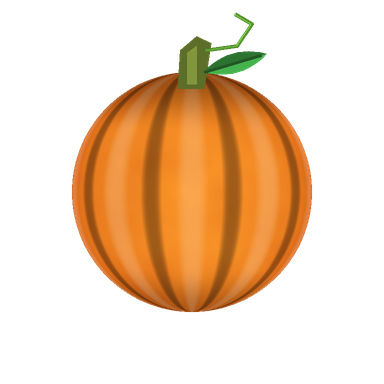
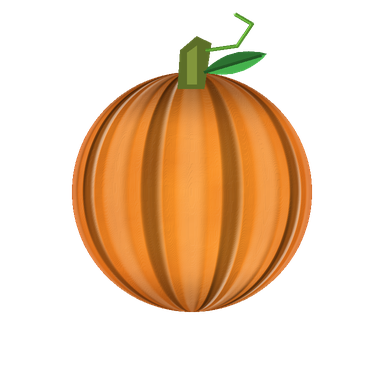
Fruit Fusion: relief and stronger lighting so fruit read as 3D
Fine skin detail is bump-lit (emboss per fruit), the shared light layers get a
deeper terminator, edge occlusion, sharper highlight and a stronger rim light.

Claude-Session: https://claude.ai/code/session_01T2SYHFgPNunqeWjZoHiYMF

diff --git a/games/fruit_merge/art/gen_art.py b/games/fruit_merge/art/gen_art.py
@@ -104,7 +104,28 @@ def lit(col, amount):
     return np.where(a >= 0, col + (1 - col) * a, col * (1 + a))
 
 
+RELIEF = {"amount": 0.0}  # set per fruit in main(); 0 = flat
+
+
+def emboss(rgb, amount, mask=None):
+    """Fake bump mapping: the fine detail (luminance minus its blur) is treated as height and lit from
+    the top left, so dimples, pores, fibres and eyes read as raised or sunk, not printed on."""
+    if amount <= 0:
+        return rgb
+    lum = np.clip(rgb.mean(axis=-1), 0, 1)
+    if mask is None:
+        mask = INSIDE
+    li = Image.fromarray((lum * 255).astype(np.uint8))
+    blur = np.asarray(li.filter(ImageFilter.GaussianBlur(R * 0.05)), dtype=np.float64) / 255.0
+    h = (lum - blur) * mask
+    gy, gx = np.gradient(h)
+    shade = -(gx * -0.55 + gy * -0.75) * amount * R * 0.08
+    rim = smooth(0.92, 1.0, np.sqrt(D2))  # fade out at the silhouette
+    return lit(rgb, np.clip(shade * (1 - rim), -0.45, 0.45))
+
+
 def disc_rgba(rgb):
+    rgb = emboss(rgb, RELIEF["amount"])
     img = np.zeros((W, W, 4))
     img[..., :3] = np.clip(rgb, 0, 1)
     img[..., 3] = INSIDE.astype(float)
@@ -311,10 +332,11 @@ def pineapple():  # oval body of raised eyes, tall spiky crown
     # game.gd skips the overlays for tiers in SELF_LIT.
     L = np.array([-0.45, -0.65, 0.62]) / np.linalg.norm([-0.45, -0.65, 0.62])
     ndl = np.clip(uu * L[0] + V * L[1] + z * L[2], 0, 1)
-    rgb = lit(rgb, -(1 - (0.3 + 0.7 * ndl)) * 0.5 - (1 - z) ** 3 * 0.2)
+    rgb = lit(rgb, -(1 - (0.2 + 0.8 * ndl)) * 0.55 - (1 - z) ** 2.2 * 0.3)
     Hh = (L + np.array([0, 0, 1.0])) / np.linalg.norm(L + np.array([0, 0, 1.0]))
     ndh = np.clip(uu * Hh[0] + V * Hh[1] + z * Hh[2], 0, 1)
     rgb = lit(rgb, ndh ** 40 * 0.6)
+    rgb = emboss(rgb, RELIEF["amount"], inside)
     img = np.zeros((W, W, 4))
     img[..., :3] = np.clip(rgb, 0, 1)
     img[..., 3] = inside.astype(float)
@@ -367,6 +389,9 @@ def watermelon():
 
 # Distinct hue (and silhouette) per tier, smallest first: blue, red, violet, yellow, orange, green,
 # crimson with a crown, brown, gold oval, ribbed orange, striped green. Keep game.gd COLORS (burst particles) in step with these.
+# relief strength per fruit (see emboss): smooth skins low, pitted or fibrous ones high
+RELIEF_BY = {"blueberry": 0.6, "cherry": 0.3, "grape": 0.5, "lemon": 1.6, "orange": 1.1, "green_apple": 0.6,
+             "pomegranate": 0.9, "coconut": 2.0, "pineapple": 2.2, "pumpkin": 1.4, "watermelon": 0.9}
 SELF_LIT = [8]  # pineapple: oval, lit in its own recipe
 FRUITS = [blueberry, cherry, grape, lemon, orange, green_apple, pomegranate, coconut, pineapple, pumpkin, watermelon]
 
@@ -377,15 +402,15 @@ def light_layers():
     L = np.array([-0.45, -0.65, 0.62])
     L = L / np.linalg.norm(L)
     ndl = np.clip(U * L[0] + V * L[1] + Z * L[2], 0, 1)
-    shade = (1 - (0.28 + 0.72 * ndl)) * 0.46 + (1 - Z) ** 3 * 0.2
-    shade += smooth(0.2, 1.0, V) * 0.1  # contact occlusion at the bottom
+    shade = (1 - (0.2 + 0.8 * ndl)) * 0.55 + (1 - Z) ** 2.2 * 0.3
+    shade += smooth(0.2, 1.0, V) * 0.14  # contact occlusion at the bottom
     s = np.zeros((W, W, 4))
     s[..., 3] = np.clip(shade, 0, 0.85) * INSIDE
     H = L + np.array([0, 0, 1.0])
     H = H / np.linalg.norm(H)
     ndh = np.clip(U * H[0] + V * H[1] + Z * H[2], 0, 1)
-    spec = ndh ** 70 * 0.85 + ndh ** 10 * 0.24
-    rim = (1 - Z) ** 4 * np.clip(U * 0.5 + V * 0.6, 0, 1) * 0.5  # cool bounce light, bottom right
+    spec = ndh ** 90 * 0.95 + ndh ** 12 * 0.28
+    rim = (1 - Z) ** 3 * np.clip(U * 0.5 + V * 0.6, 0, 1) * 0.65  # cool bounce light, bottom right
     p = np.zeros((W, W, 4))
     p[..., :3] = 1.0
     p[..., 3] = np.clip(spec + rim, 0, 1) * INSIDE
@@ -456,6 +481,7 @@ def backdrop(w=540, h=960):
 
 def main():
     for i, fn in enumerate(FRUITS):
+        RELIEF["amount"] = RELIEF_BY.get(fn.__name__, 0.8)
         finish(fn()).save(OUT / f"fruit_{i}.png", optimize=True)
         print("fruit", i, fn.__name__)
     shade, spec = light_layers()
